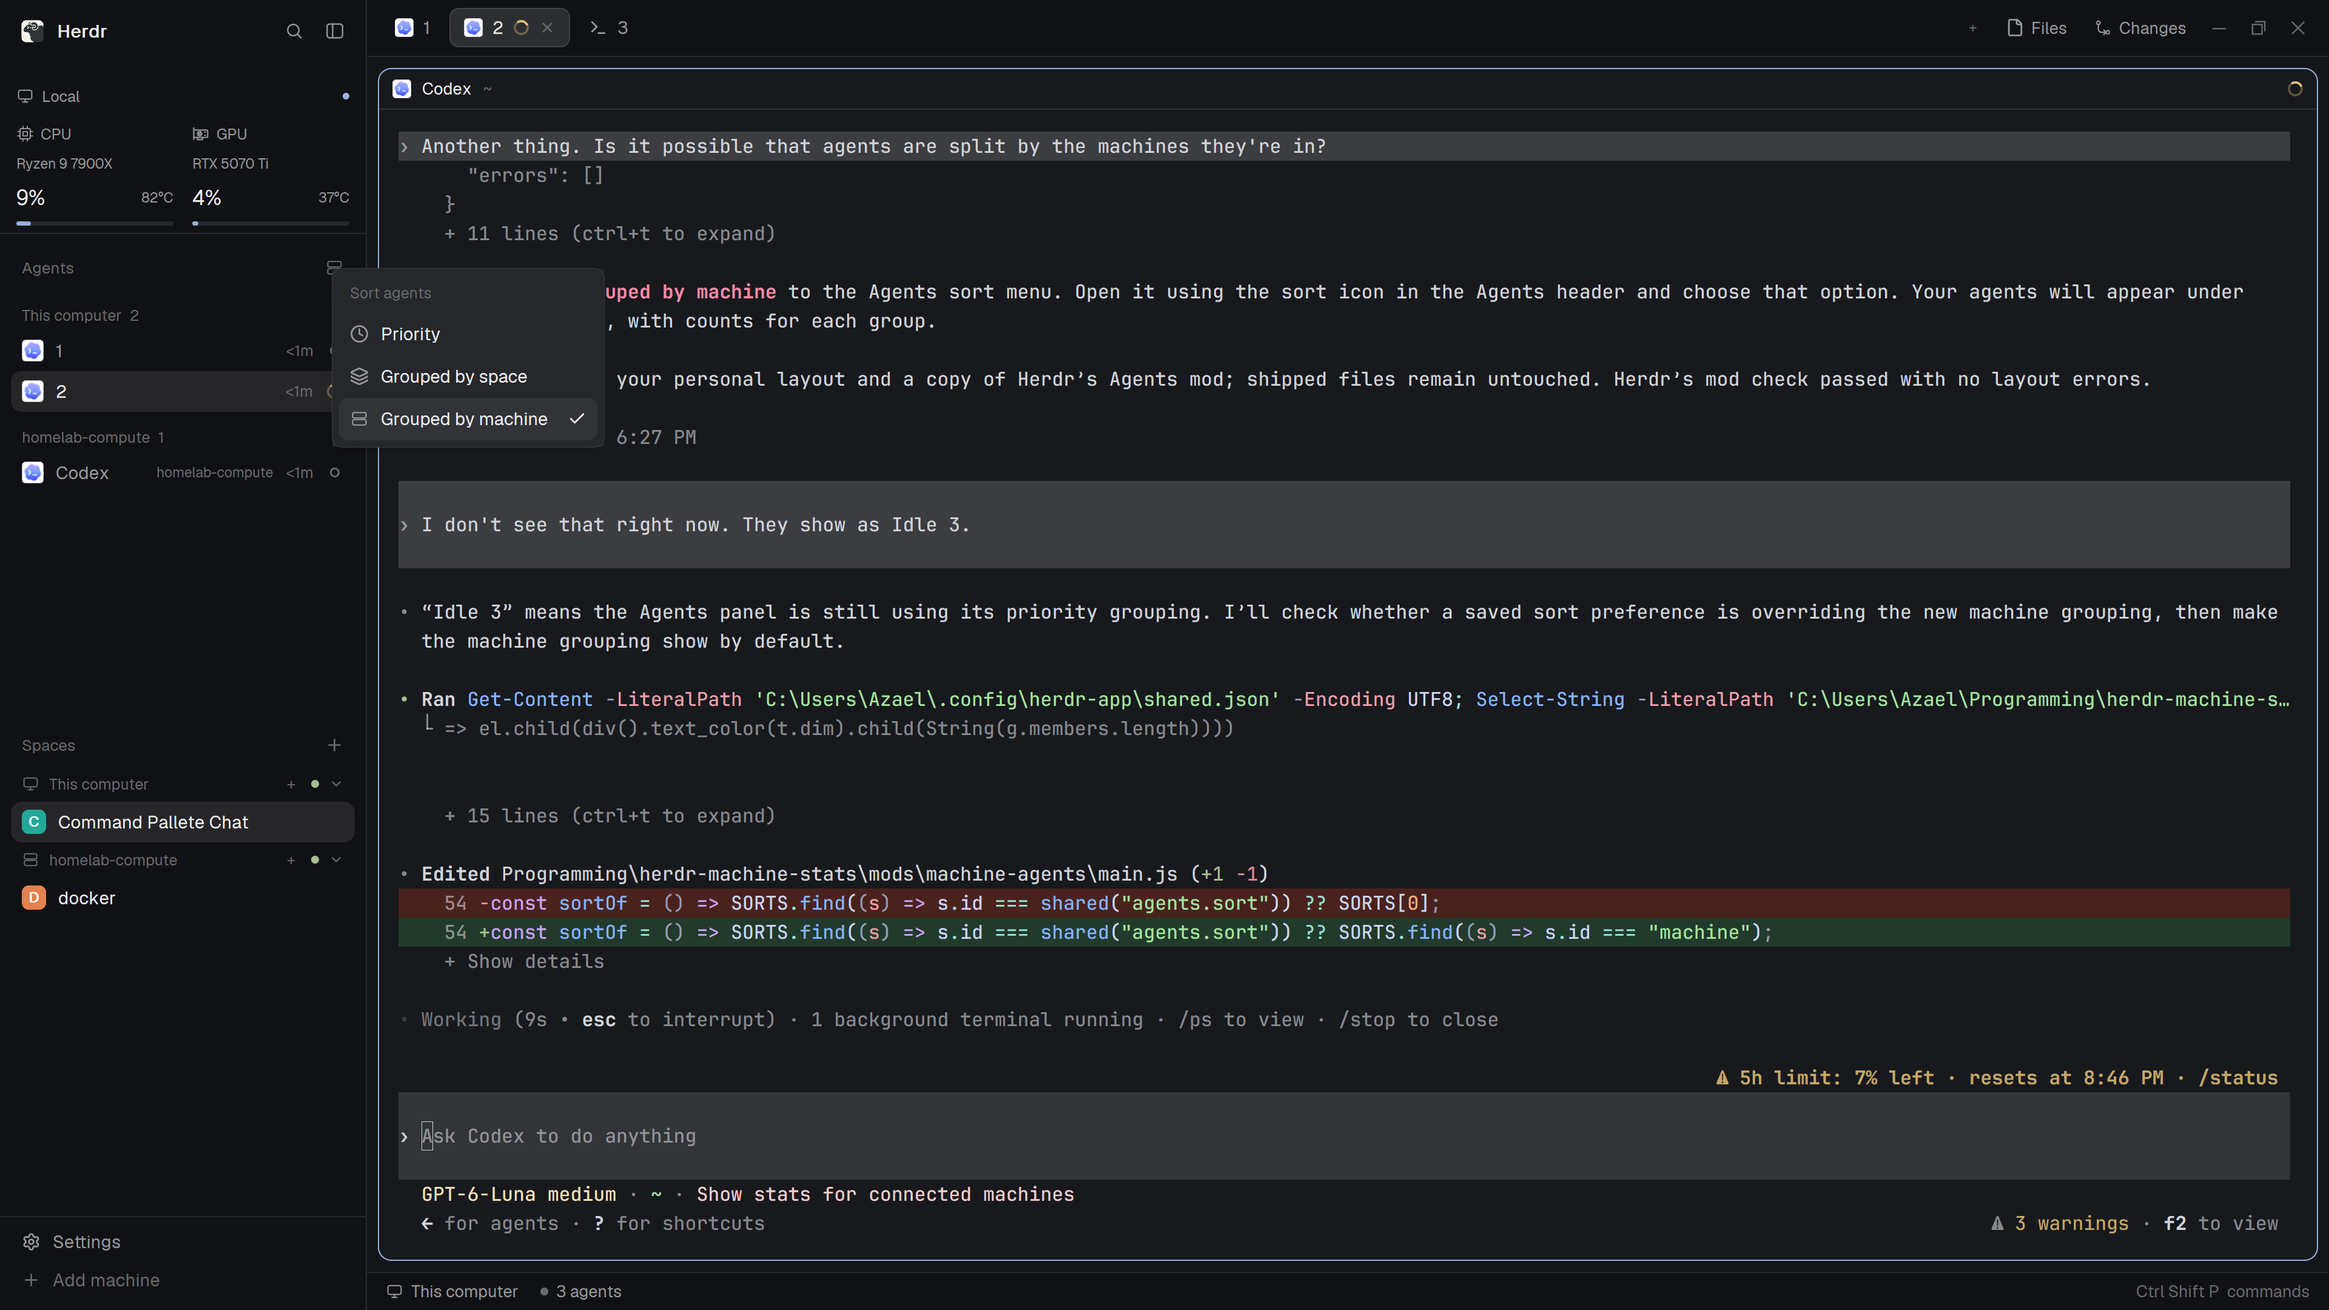
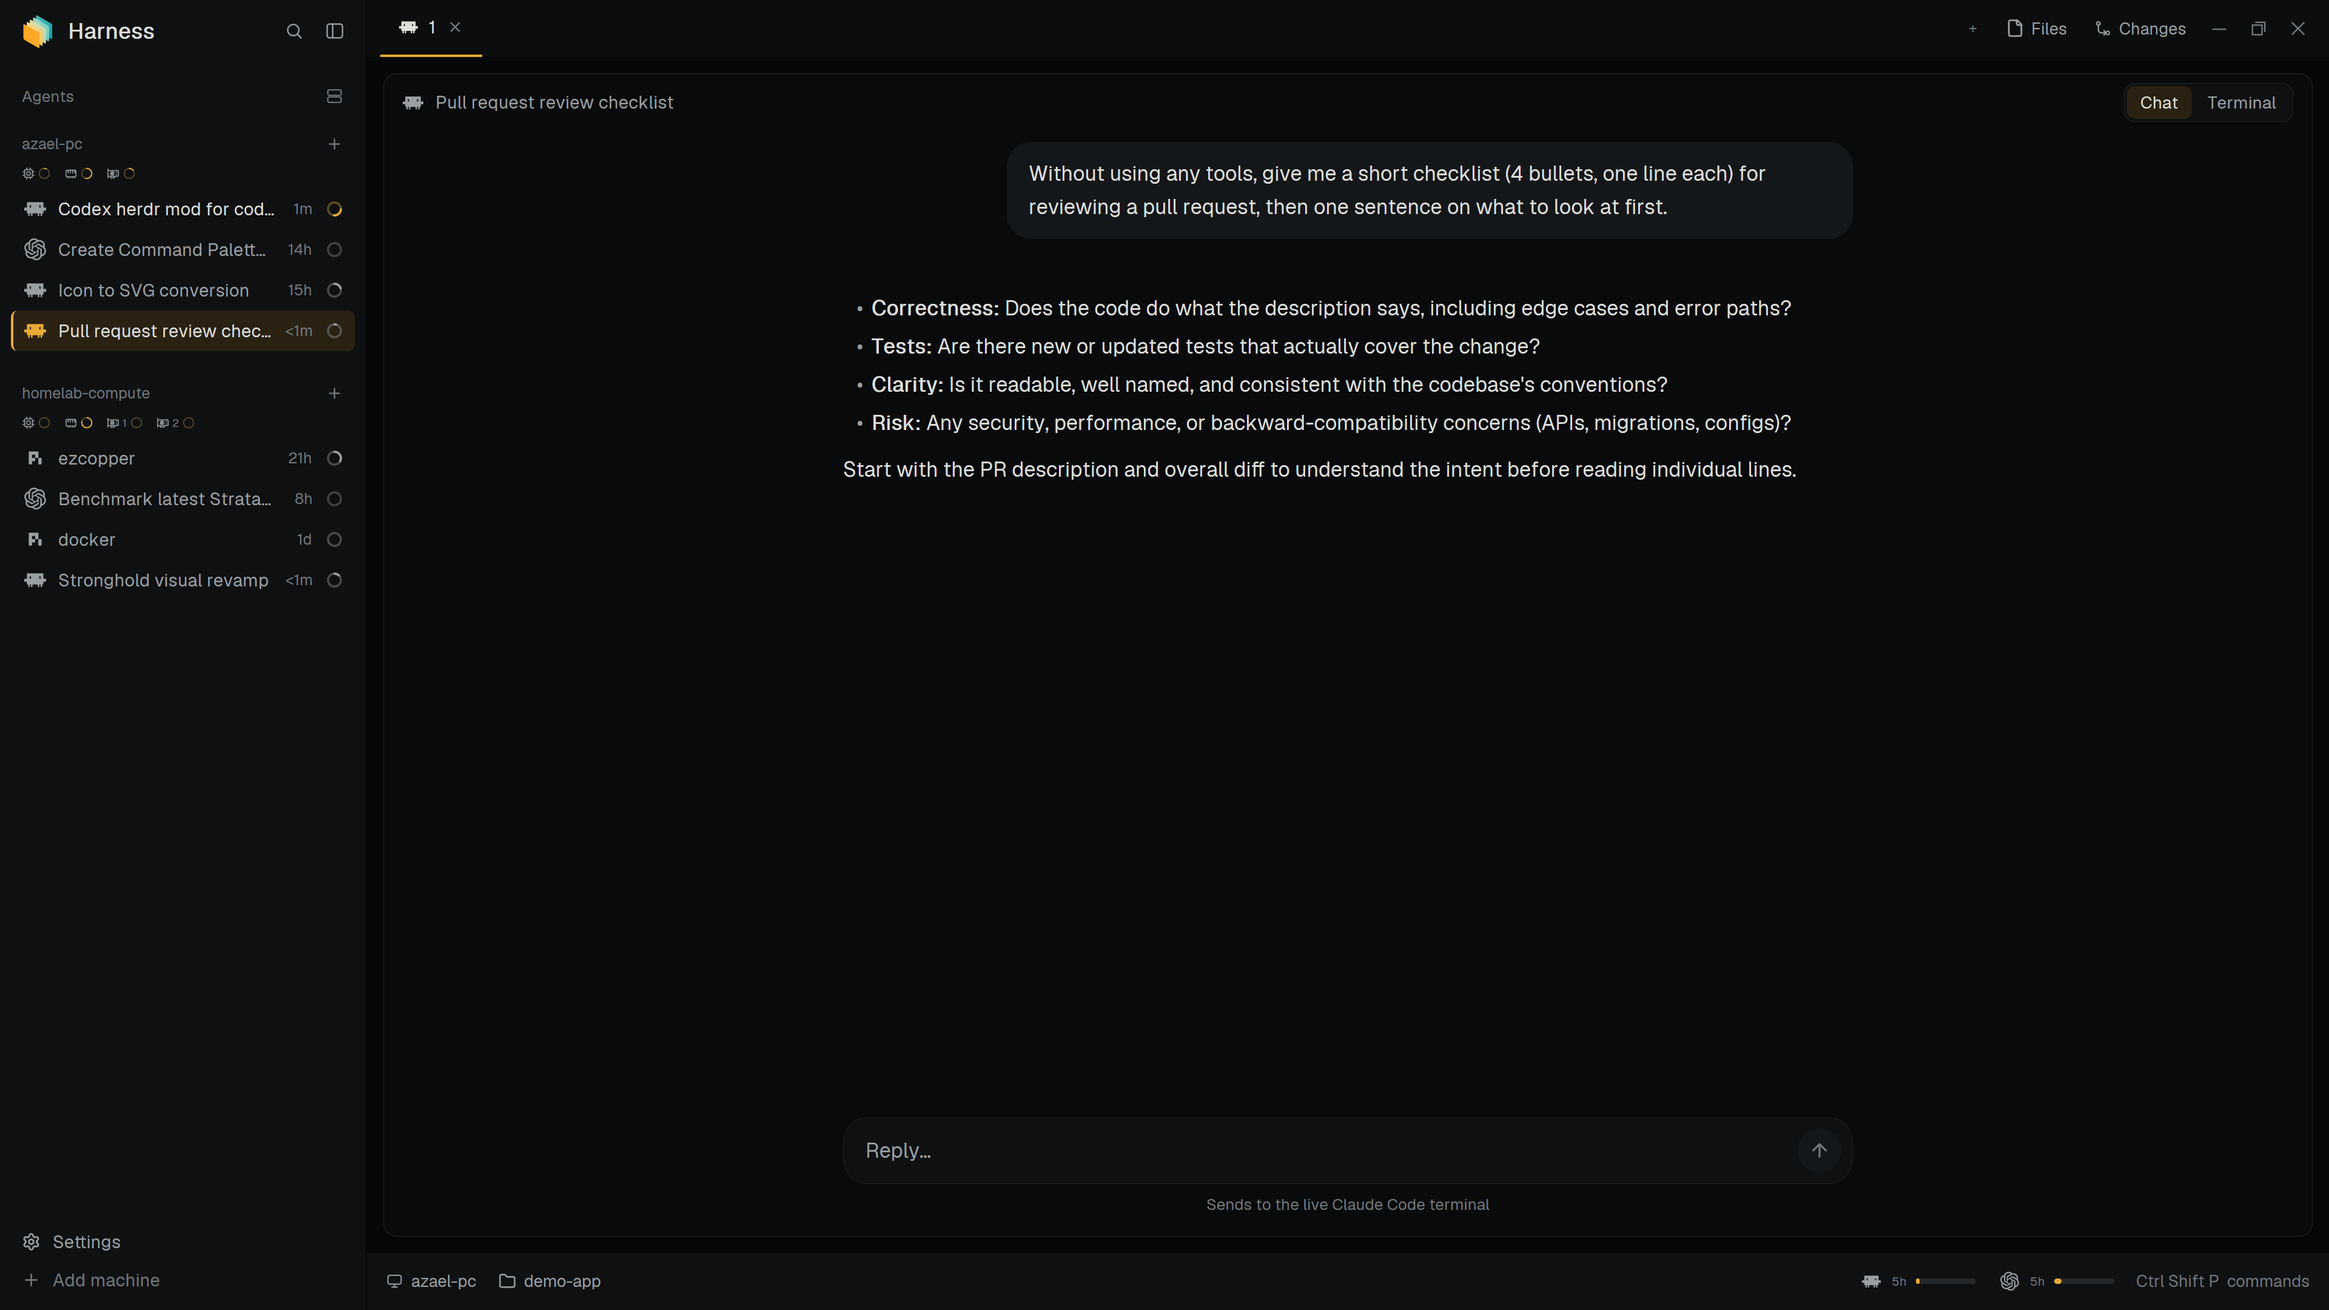
Rewrite the README and recipe the way herdr.dev layouts read
RECIPE.md is now a brief another agent can build the layout from, in
herdr's order: what you see, how it behaves, built from, watch out,
done when. It replaces the maintenance note that was there. The README
is shorter and points to it: what it is, install, platforms, working on
it.

The preview is a fresh screenshot of the current layout with one Claude
Code prompt in Chat view, and the layout uses it as its settings
picture (layouts/herdr-harness.png, copied by install.ps1).

diff --git a/RECIPE.md b/RECIPE.md
@@ -1,22 +1,115 @@
-# Maintaining the Harness mods
+# Harness
 
-Use [README.md](README.md) for the current architecture and installation flow.
-Use [CONTEXT.md](CONTEXT.md) for native session collectors and their limitations.
-The earlier recipe described temperature panels and terminal-text quota scraping;
-those no longer describe the active UI.
+A dark, amber-accented herdr window organized by machine. The sidebar lists every
+connected machine with live CPU, RAM and per-GPU load rings and the agents running on it,
+each with its session title, age and a status or context ring. Agent tabs open as a
+chat (from [herdr-chat](https://github.com/azaeldrm/herdr-chat)) or their live terminal.
+A status bar shows where you are and how much Claude Code and Codex quota is left.
 
-Read Herdr's installed AGENTS.md and type definitions before changing native UI.
-Edit personal mods and the cloned layout; never overwrite shipped mods.
+![Harness](preview.png)
 
-Canonical generated-code inputs:
-- `mods/machine-metrics/main.js`
-- `scripts/context-relay.py`
-- circle geometry in `scripts/build-mods.py`
+## What you see
 
-Run `python scripts/build-mods.py` after changing these sources. Do not hand-edit
-`machine-agents/machine-metrics.js`, `context-probe.js`, or `context-rings/`.
-`install.ps1` rebuilds these before installing.
+Left to right: a sidebar, then the work column. There's no system title bar.
 
-Preserve fixed footer rows in both sidebar widths, centered compact columns,
-per-machine grouping, matching context/spinner geometry and unknown readings.
-Validate with mod checks, app status and screenshots in both sidebar widths.
+- **Sidebar** (268 px, `surface` `#0e1012`; drag 44–480 px, or fold to a 56 px rail,
+  76 px on macOS):
+  - **Brand** (46 px, drags the window): the animated Harness logo (28 px), "Harness"
+    (16 px semibold), then Search and the sidebar toggle.
+  - **Agents:** an "Agents" heading (11.5 px, dim) with a sort button. By default it's
+    grouped by machine. Each group has the machine's name (this computer's own name, or
+    a nickname), a + to start an agent there, a row of CPU, RAM and GPU rings (one per
+    GPU, amber), then its agents. Each agent row (30 px) shows the program icon, the
+    session's own title (else its folder, else the tab name), its age (`<1m`, `14h`,
+    `1d`) and its status. Sub-agents hang under their parent as a tree (26 px rows).
+    A machine with no agents says "No agents", "Connecting…" or "Offline".
+  - **Footer** (92 px): Settings (with an amber dot when an update is ready) and Add
+    machine.
+- **Tab bar** (42 px, `chrome` `#0b0d0e`, drags the window): the space's tabs as labels
+  with the program icon, the active one underlined in amber (2 px) with a close button;
+  then +, Files, Changes, and the window buttons on Windows and Linux.
+- **Work area** (12 px padding): the shown tab, as a chat or as terminal cards (10 px
+  radius, 1 px `border`, a 42 px header with the Chat / Terminal toggle). Files or
+  Changes open in a 368 px panel on the right.
+- **Status bar** (42 px, `surface`): the shown space's machine and branch, the focused
+  pane's folder, "N needs you" when agents on that machine are blocked, then Claude Code and Codex quota bars (44 × 4 px)
+  and "Ctrl Shift P commands".
+
+The theme is `harness`: background `#080a0b`, canvas `#060708`, text `#dededb`, accent and
+working `#e9aa35`, done `#10a7a7`, idle `#80868b`, borders `#25282b`. Fonts are herdr's.
+
+## How it behaves
+
+- **Agent status**, in the sidebar: working is an amber ring spinning once every 900 ms;
+  blocked is a "Needs you" badge (a "!" in the rail); done is a 7 px teal dot; idle is a
+  ring filled to the share of the context window used (red `#d88179` above 90%, an empty
+  ring when unknown). Tabs show the same spinner, or a dot for blocked and done.
+- **Logo:** it fades in and out while any agent is working and bobs up and down otherwise.
+  Clicking it folds or unfolds the sidebar.
+- **Sidebar:** clicking an agent focuses it; hovering a row swaps its age for a pin, and
+  pinned agents sit in a Pinned group on top. The sort button offers Priority (Needs you,
+  Done, Working, Idle sections), Grouped by space and Grouped by machine. Group headers
+  and parents with sub-agents fold. A machine's + opens the agents installed there.
+- **Rings:** CPU, RAM and GPU refresh every second; hover one for its percentage. Missing
+  readings stay empty, never 0%.
+- **Tab bar:** click selects, double-click renames, drag reorders, right-click opens the
+  tab menu, the scroll wheel moves between tabs. Files and Changes toggle the right panel,
+  remembered per space.
+- **Status bar:** each quota bar shows the 5-hour window and switches to 7 days while
+  hovered, red above 90%; the tooltip gives the reset time. The last item opens the
+  command palette.
+
+## Built from
+
+- **Layout** `layouts/herdr-harness.json`, cloned from `main`: root `row` (`titlebar:
+  none`, theme `harness`, `terminal_padding [14, 12]`) → `sidebar` column [`brand`
+  block, `agents` block, `sidebar-footer` block] and `work` column [`tabs` block,
+  `work-body` row [`chat-view` stack of `chat-panel` and `terminal-panel`, hidden
+  `panel` column with a `panel-body` stack of `files` and `changes`], `status` block].
+- **Mods:**
+  - `harness-chrome`: the brand bar, or the footer with props `{footer: true}`. Folds
+    the sidebar with `layout.resize` and opens the shipped `picker` and `machine-add`.
+  - `machine-agents`: the agents list, its sort popup (props `{sortMenu: true}`) and
+    context rings. Calls `setAgentOrder`, `pane.focus` and `terminal.peek`.
+  - `machine-metrics`: draws a machine's ring row (built into `machine-agents`).
+  - `machine-new-menu`: the per-machine agent menu, from `knownAgents({on})`.
+  - `harness-tabs`: the tab bar; uses the shipped `new-menu` and `menu`.
+  - `workspace-status-machine`: the status bar. It also collects the stats: a built copy of
+    `machine-stats` publishes shared `machine.stats`, `machine.usage` and
+    `machine.local-label`.
+  - `herdr-chat` (separate repo): the chat panel and the pane header with the toggle.
+  - Shipped: `files`, `changes`, `picker`, `machine-add`, `new-menu`, `menu`.
+- **Programs it runs** through `exec(..., {on: machine})`: per platform
+  (`machine-stats/platforms.js`) a PowerShell or Python 3 probe, `nvidia-smi`,
+  `uname -s`, `hostname`, `codex app-server` for Codex quota, and a read of
+  `~/.claude/herdr-usage.json` for Claude quota. Context rings read snapshots written by
+  `scripts/context-relay.py`.
+- **Art:** `harness-logo-fade` and `harness-logo-bob` (WebP, SVG sources), monochrome SVG
+  icons in `harness-chrome` and `machine-stats`, 101 generated context rings, Windows
+  window icons in `harness-tabs`, program icons in `brand-assets/` and `programs.json`.
+
+## Watch out
+
+- Herdr won't import across mod folders, so `scripts/build-mods.py` copies code:
+  `machine-metrics` into `machine-agents`, `machine-stats` into
+  `workspace-status-machine`, `context-relay.py` into `context-probe.js`. Edit the
+  sources and run it.
+- The chat and the toggle need herdr-chat; without it those blocks show errors.
+- Claude quota needs the status line from `scripts/install-claude-usage.ps1`; context rings
+  need `scripts/install-context.py` on each machine. Without them those stay empty.
+- Remote machines need Python 3. GPUs are NVIDIA only (AMD, Intel and Apple are empty
+  entries in `machine-stats/gpus.js`). The macOS probe has never run on a Mac.
+- `install.ps1` is PowerShell, so installing by script is Windows only.
+- `harness-pane` (a pane header) and `machine-spaces` (a Spaces list) are installed but
+  the layout doesn't place them.
+- Sizes are read from the `sidebar` node's width: below 160 px every sidebar mod draws
+  its rail.
+
+## Done when
+
+- `herdr-app check` passes for every mod and `herdr-app status` shows no errors.
+- Each connected machine has a group with live CPU, RAM and GPU rings, and its agents
+  under it; a working agent spins and the logo fades.
+- Folding the sidebar leaves icons, rings and statuses centered in the rail.
+- The status bar names the focused pane's machine and folder and fills the quota bars.
+- A Claude Code tab toggles between Chat and Terminal from its header.

diff --git a/README.md b/README.md
@@ -1,98 +1,49 @@
 # Harness
 
-A herdr layout with a sidebar organized by machine: agent sessions with status and
-context rings, CPU/RAM/NVIDIA GPU load rings, Claude and Codex account usage in the
-status bar, and its own look (the `harness` theme, logo, tabs and pane headers).
-Everything uses herdr's existing machine connections; no HTTP endpoint is needed.
+A herdr layout organized by machine: each machine's CPU, RAM and GPU load and its agents
+in the sidebar, agent tabs as a chat or a terminal, and Claude Code and Codex quota in the
+status bar. Everything goes through herdr's own machine connections.
 
-## What's in this repository
+![Harness](preview.png)
 
-It is laid out like the herdr home (`~/.config/herdr-app`):
-
-| Path | What it is |
-|---|---|
-| `layouts/herdr-harness.json` | the layout |
-| `mods/harness-chrome`, `harness-tabs`, `harness-pane` | branding, sidebar toggle, tab and pane styling |
-| `mods/machine-agents` | machine groups, add-agent buttons, agent navigation, status and context rings |
-| `mods/machine-metrics` | CPU/RAM/per-GPU renderer (a built copy lives in `machine-agents`) |
-| `mods/machine-stats` | machine probes and Claude/Codex account quota collection |
-| `mods/workspace-status-machine` | the status bar: machine, folder and account usage bars |
-| `mods/machine-new-menu`, `machine-spaces` | agent creation and the optional Spaces list |
-| `themes/harness.json` | the theme |
-| `brand-assets/`, `programs.json` | program icons (Codex knot, tinting for Claude Code, Codex and Pi) |
-| `scripts/` | build and context-collection scripts |
-
-The layout's chat panel and Chat/Terminal toggle come from
-[herdr-chat](https://github.com/azaeldrm/herdr-chat), installed separately.
+[RECIPE.md](RECIPE.md) describes it in full, as a brief to build it from.
 
 ## Install
 
-Requires the Herdr app and Python 3 (for building, context collection and Linux probing).
+Needs the Herdr app, Python 3 on each machine, and
+[herdr-chat](https://github.com/azaeldrm/herdr-chat) installed first.
 
-1. Install herdr-chat first.
-2. From a clone of this repository, run `./install.ps1`. It builds the generated mod
-   files, copies the mods, theme, brand assets and layout into `~/.config/herdr-app`
-   (keeping a copy of any existing `herdr-harness` layout), merges the program icons into
-   your `programs.json`, checks every mod, and switches to the layout. It won't switch if
-   a mod the layout uses is missing, and says which. `-NoSwitch` installs without
-   switching.
+Ask your agent to add this layout, or run `./install.ps1` from a clone (Windows). It
+builds the generated files, copies the mods, theme, assets and layout into
+`~/.config/herdr-app`, merges the program icons into your `programs.json`, checks every
+mod and switches to `herdr-harness` (`-NoSwitch` to skip). `ctrl-shift-l` switches back.
 
-For per-session context rings, run `python scripts/install-context.py` locally and
-`python scripts/install-context.py --on MACHINE` for each connected machine. See
-[CONTEXT.md](CONTEXT.md) for hooks, reload requirements and limitations.
+Optional:
 
-## How this repository is kept
+- **Claude Code quota:** `scripts/install-claude-usage.ps1` adds a status line that
+  records it.
+- **Context rings:** `python scripts/install-context.py`, plus `--on MACHINE` for each
+  connected machine. See [CONTEXT.md](CONTEXT.md).
+- **This computer's name:** it shows the computer's own name. For a nickname, put
+  `{ "localMachineName": "my-pc" }` in `~/.config/herdr-app/harness.json`.
 
-On the machine it's made on, the repository is the herdr home itself. Herdr reads and
-writes these files where it always does, and an allow-list `.gitignore` tracks only the
-harness files, so whatever changes there, by hand, by an agent or by herdr, shows up in
-`git status`. There is one copy and nothing to sync. Running `install.ps1` there only
-rebuilds the generated files and checks the mods.
+## Platforms
 
-Generated files: `scripts/build-mods.py` writes `mods/machine-agents/machine-metrics.js`,
-`context-probe.js` and `context-rings/`, and `mods/workspace-status-machine/machine-data.js`
-and `probes.js`, from `mods/machine-metrics`, `scripts/context-relay.py` and
-`mods/machine-stats`. Edit the sources, then run it (or `install.ps1`).
+| | CPU and RAM | GPUs |
+|---|---|---|
+| Windows | PowerShell counters | NVIDIA |
+| Linux | Python 3, `/proc` | NVIDIA |
+| macOS | Python 3, `top` and `vm_stat` (untested) | none yet |
 
-## Your machine's name
+Each machine's platform is detected once (`mods/machine-stats/platforms.js`). GPU vendors
+are entries in `mods/machine-stats/gpus.js`; AMD, Intel and Apple are there to fill in.
 
-The sidebar and status bar call this computer by its own name (`hostname`; on macOS the
-Computer Name), or "This computer" if that can't be read. To show a nickname instead, put
-it in `~/.config/herdr-app/harness.json`, a per-person file that isn't part of the layout:
+## Working on it
 
-```json
-{ "localMachineName": "my-pc" }
-```
+Here the repository is the herdr home itself: an allow-list `.gitignore` tracks only
+these files, so there's one copy and herdr's edits show up in `git status`.
 
-It's re-read every 30 seconds. Other machines show the names they have in herdr.
-
-## How it measures
-
-Each machine is probed through herdr's own connection to it, with no listener. What runs
-depends on its platform (`mods/machine-stats/platforms.js`): this computer's comes from
-herdr; another machine is asked once with `uname -s`, and one without `uname` is Windows.
-
-| Platform | CPU and RAM | Python | Reading a home file | Name |
-|---|---|---|---|---|
-| Windows | PowerShell, CIM counters (CPU from two samples) | `python` | PowerShell `Get-Content` | `hostname` |
-| Linux | Python 3, `/proc` | `python3` | `sh` | `hostname` |
-| macOS | Python 3, `top`, `vm_stat`, `sysctl` (not yet run on a Mac) | `python3` | `sh` | `scutil --get ComputerName` |
-
-GPUs come from a registry of vendors (`mods/machine-stats/gpus.js`): each gives the
-command that lists its GPUs' load on each platform and a parser for its output, and every
-probe runs the commands its platform has. NVIDIA (`nvidia-smi`, Windows and Linux) is filled
-in; AMD, Intel and Apple have empty entries to fill in. One ring is shown per GPU.
-
-Machine probes run every second without overlapping on a host; context snapshots refresh
-every two seconds; quota reads run every 30 seconds. Missing readings stay unknown. Quota
-values come from native account data, never terminal conversation text: Claude Code's from
-`~/.claude/herdr-usage.json` (written by the status line `scripts/install-claude-usage.ps1`
-installs), Codex's from `codex app-server`.
-
-## Validation
-
-Run `herdr-app check <absolute mod folder>` after edits, then inspect `herdr-app status`
-and `herdr-app shot`. Collector tests:
-`python -m unittest discover -s tests -p test_context_relay.py`.
-
-UI changes are hot-reloaded; there's no need to restart the app to apply them.
+- Edit the sources, then run `python scripts/build-mods.py`. It writes the copies herdr
+  needs (see RECIPE.md, Watch out).
+- Check with `herdr-app check <mod folder>`, `herdr-app status` and `herdr-app shot`.
+- Collector tests: `python -m unittest discover -s tests -p test_context_relay.py`.
